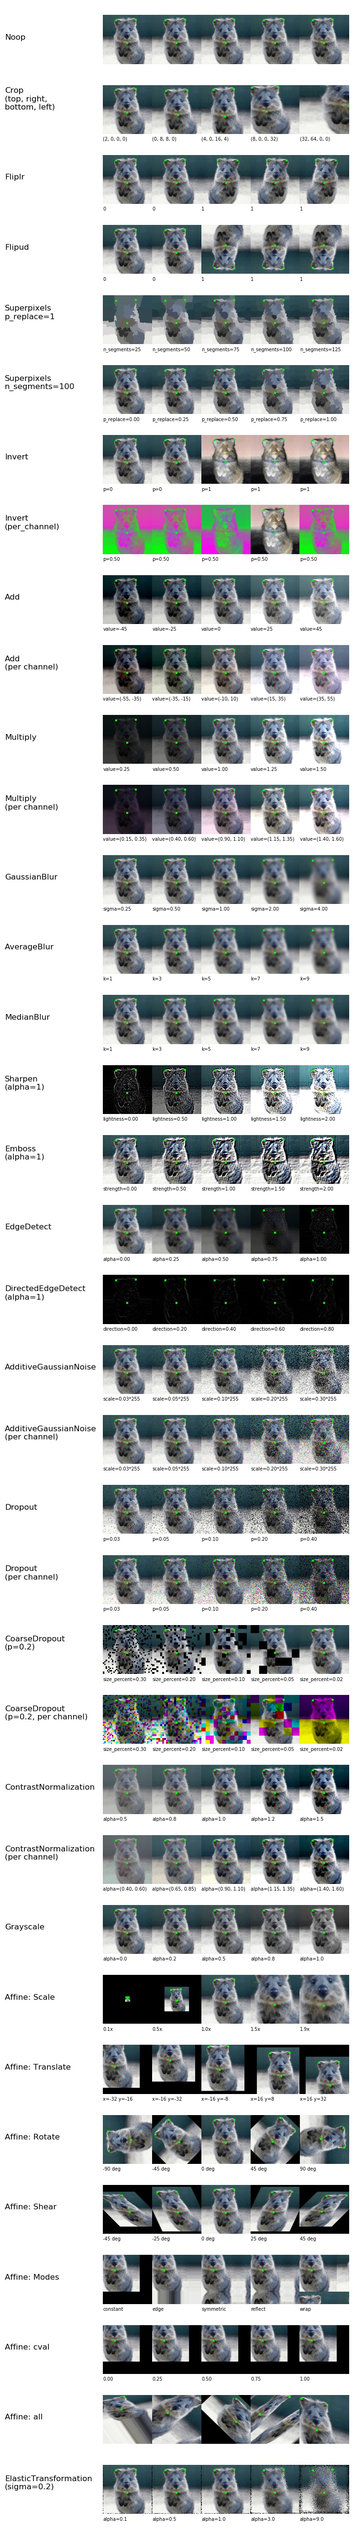
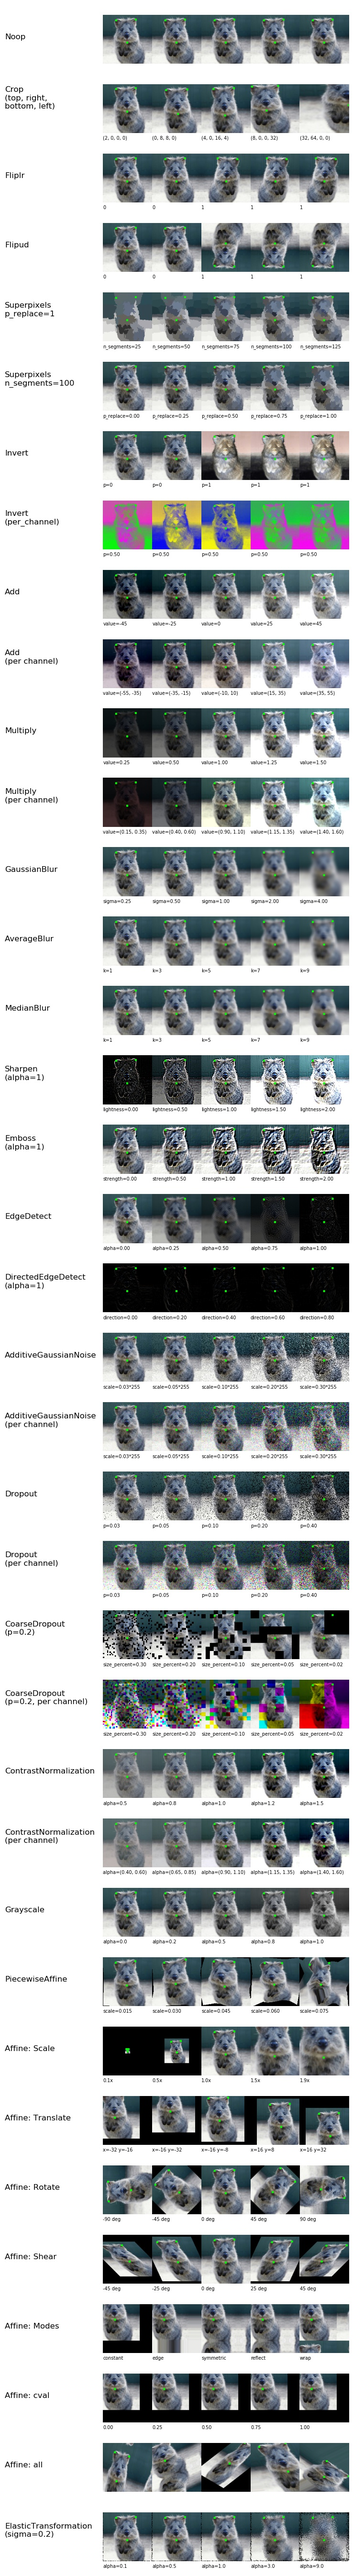
add PiecewiseAffine, improve example image generation plotting

diff --git a/generate_example_images.py b/generate_example_images.py
@@ -105,7 +105,8 @@ def draw_single_sequential_images():
                     iaa.Multiply((0.5, 1.5), per_channel=0.5), # change brightness of images (50-150% of original value)
                     iaa.ContrastNormalization((0.5, 2.0), per_channel=0.5), # improve or worsen the contrast
                     iaa.Grayscale(alpha=(0.0, 1.0)),
-                    sometimes(iaa.ElasticTransformation(alpha=(0.5, 3.5), sigma=0.25)) # move pixels locally around (with random strengths)
+                    sometimes(iaa.ElasticTransformation(alpha=(0.5, 3.5), sigma=0.25)), # move pixels locally around (with random strengths)
+                    sometimes(iaa.PiecewiseAffine(scale=(0.01, 0.05))) # sometimes move parts of the image around
                 ],
                 random_order=True
             )
@@ -157,6 +158,7 @@ def draw_per_augmenter_images():
         ("ContrastNormalization", [("alpha=%.1f" % (alpha,), iaa.ContrastNormalization(alpha=alpha)) for alpha in [0.5, 0.75, 1.0, 1.25, 1.50]]),
         ("ContrastNormalization\n(per channel)", [("alpha=(%.2f, %.2f)" % (alphas[0], alphas[1],), iaa.ContrastNormalization(alpha=alphas, per_channel=True)) for alphas in [(0.4, 0.6), (0.65, 0.85), (0.9, 1.1), (1.15, 1.35), (1.4, 1.6)]]),
         ("Grayscale", [("alpha=%.1f" % (alpha,), iaa.Grayscale(alpha=alpha)) for alpha in [0.0, 0.25, 0.5, 0.75, 1.0]]),
+        ("PiecewiseAffine", [("scale=%.3f" % (scale,), iaa.PiecewiseAffine(scale=scale)) for scale in [0.015, 0.03, 0.045, 0.06, 0.075]]),
         ("Affine: Scale", [("%.1fx" % (scale,), iaa.Affine(scale=scale)) for scale in [0.1, 0.5, 1.0, 1.5, 1.9]]),
         ("Affine: Translate", [("x=%d y=%d" % (x, y), iaa.Affine(translate_px={"x": x, "y": y})) for x, y in [(-32, -16), (-16, -32), (-16, -8), (16, 8), (16, 32)]]),
         ("Affine: Rotate", [("%d deg" % (rotate,), iaa.Affine(rotate=rotate)) for rotate in [-90, -45, 0, 45, 90]]),
@@ -195,6 +197,8 @@ def draw_per_augmenter_images():
             row_titles.append(img_title)
         rows.append((row_name, row_images, row_keypoints, row_titles))
 
+    # matplotlib drawin routine
+    """
     print("[draw_per_augmenter_images] Plotting...")
     width = 8
     height = int(1.5 * len(rows_augmenters))
@@ -236,6 +240,51 @@ def draw_per_augmenter_images():
 
     fig.savefig("examples.jpg", bbox_inches="tight")
     #plt.show()
+    """
+
+    # simpler and faster drawing routine
+    output_image = ExamplesImage(128, 128, 128+64, 32)
+    for (row_name, row_images, row_keypoints, row_titles) in rows:
+        row_images_kps = []
+        for image, keypoints in zip(row_images, row_keypoints):
+            row_images_kps.append(keypoints.draw_on_image(image, size=5))
+        output_image.add_row(row_name, row_images_kps, row_titles)
+    misc.imsave("examples.jpg", output_image.draw())
+
+class ExamplesImage(object):
+    def __init__(self, image_height, image_width, title_cell_width, subtitle_height):
+        self.rows = []
+        self.image_height = image_height
+        self.image_width = image_width
+        self.title_cell_width = title_cell_width
+        self.cell_height = image_height + subtitle_height
+        self.cell_width = image_width
+
+    def add_row(self, title, images, subtitles):
+        assert len(images) == len(subtitles)
+        images_rs = []
+        for image in images:
+            images_rs.append(ia.imresize_single_image(image, (self.image_height, self.image_width)))
+        self.rows.append((title, images_rs, subtitles))
+
+    def draw(self):
+        rows_drawn = [self.draw_row(title, images, subtitles) for title, images, subtitles in self.rows]
+        grid = np.vstack(rows_drawn)
+        return grid
+
+    def draw_row(self, title, images, subtitles):
+        title_cell = np.zeros((self.cell_height, self.title_cell_width, 3), dtype=np.uint8) + 255
+        title_cell = ia.draw_text(title_cell, x=2, y=2, text=title, color=[0, 0, 0], size=12)
+
+        image_cells = []
+        for image, subtitle in zip(images, subtitles):
+            image_cell = np.zeros((self.cell_height, self.cell_width, 3), dtype=np.uint8) + 255
+            image_cell[0:image.shape[0], 0:image.shape[1], :] = image
+            image_cell = ia.draw_text(image_cell, x=2, y=image.shape[0]+2, text=subtitle, color=[0, 0, 0], size=11)
+            image_cells.append(image_cell)
+
+        row = np.hstack([title_cell] + image_cells)
+        return row
 
 if __name__ == "__main__":
     main()

diff --git a/README.md b/README.md
@@ -119,7 +119,8 @@ seq = iaa.Sequential(
                 iaa.Multiply((0.5, 1.5), per_channel=0.5), # change brightness of images (50-150% of original value)
                 iaa.ContrastNormalization((0.5, 2.0), per_channel=0.5), # improve or worsen the contrast
                 iaa.Grayscale(alpha=(0.0, 1.0)),
-                sometimes(iaa.ElasticTransformation(alpha=(0.5, 3.5), sigma=0.25)) # move pixels locally around (with random strengths)
+                sometimes(iaa.ElasticTransformation(alpha=(0.5, 3.5), sigma=0.25)), # move pixels locally around (with random strengths)
+                sometimes(iaa.PiecewiseAffine(scale=(0.01, 0.05))) # sometimes move parts of the image around
             ],
             random_order=True
         )
